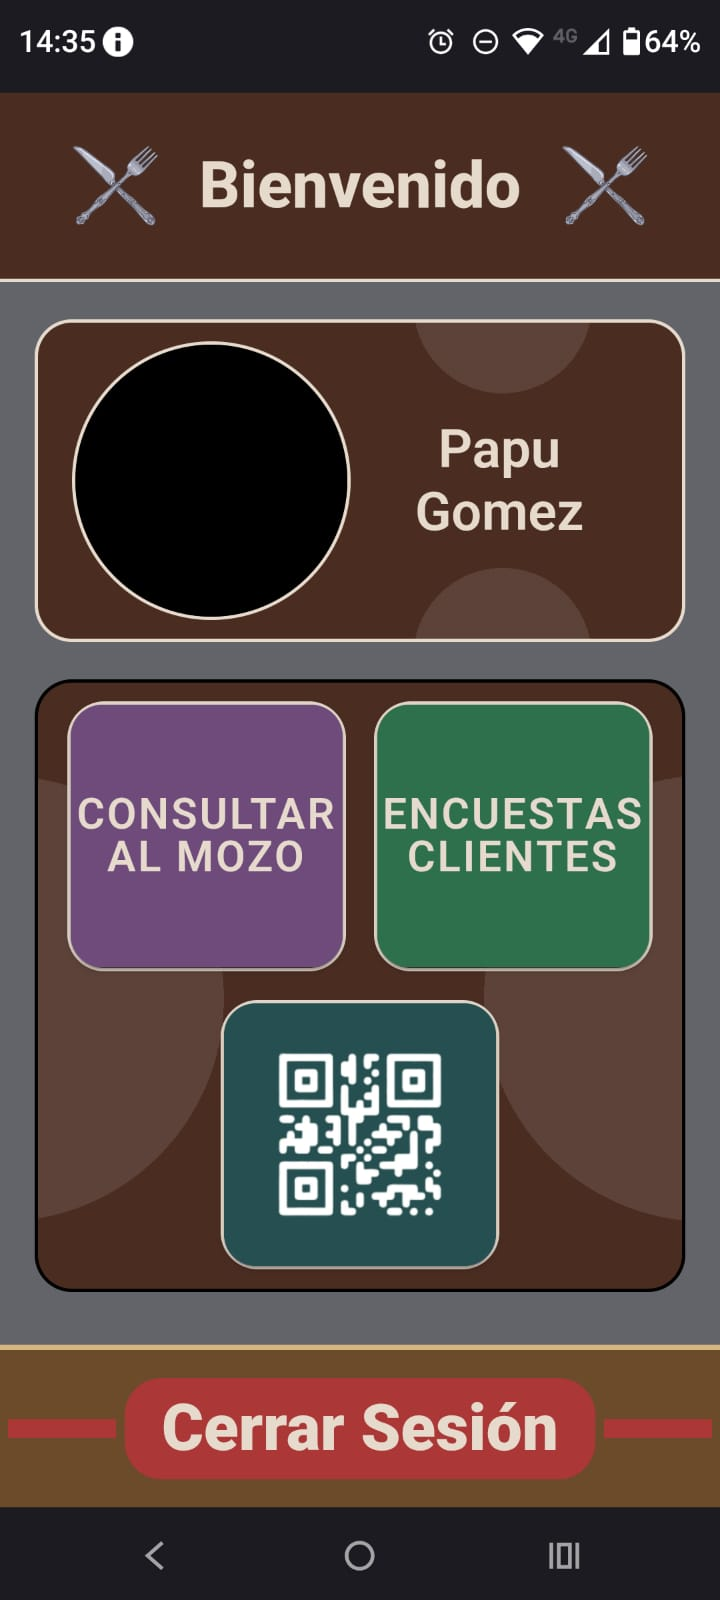
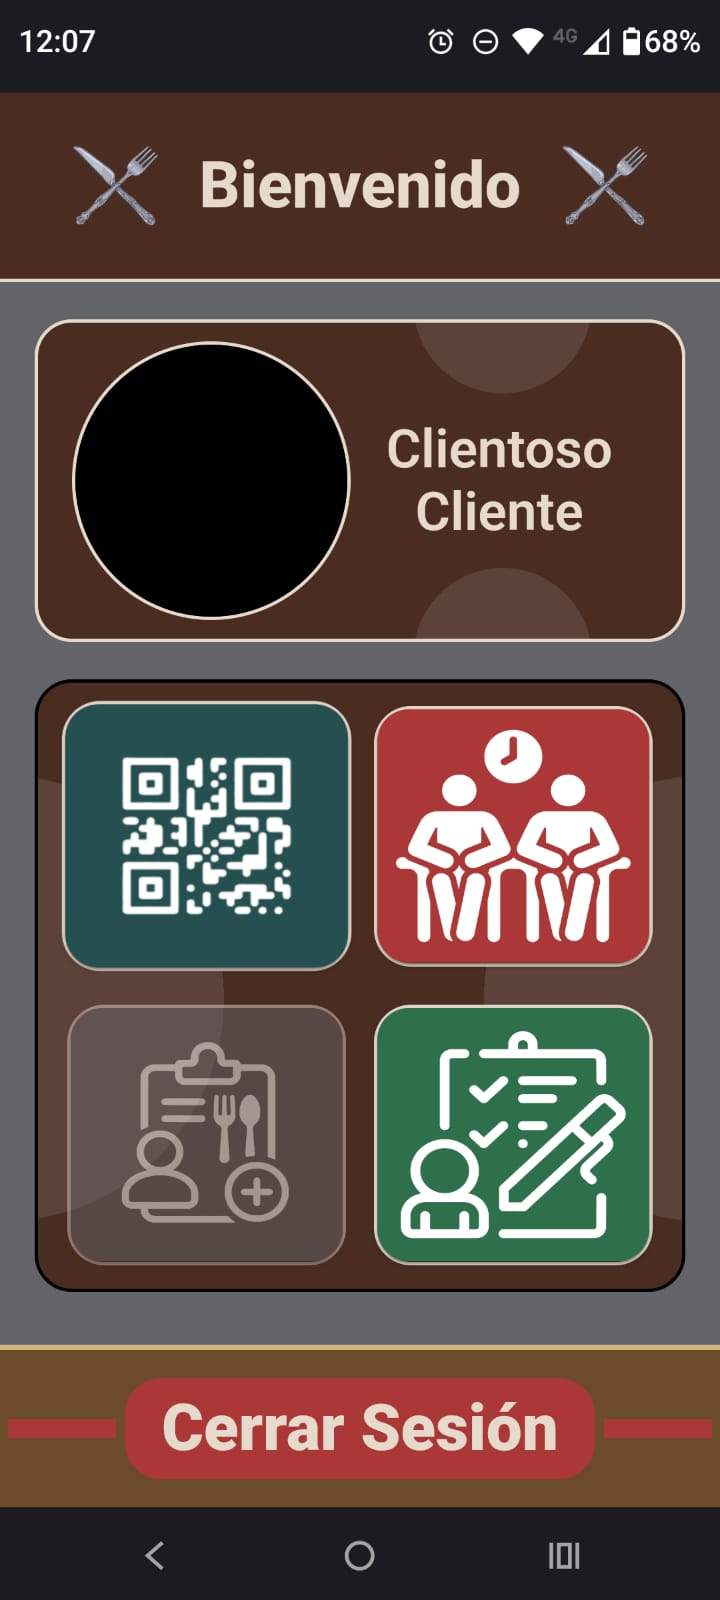
Cambios ReadMe

diff --git a/README.md b/README.md
@@ -13,38 +13,50 @@ Imagen 1 (principal - mozo):
 Si el círculo que está en el medio de la pantalla es una foto del empleado, hacerla más grande. 
 Si 'Pedidos' es la única opción, quitar esa pantalla y redirigir directamente a la opción en cuestión.
 Evitar textos en botones (recordar que los empleados están en constatnte movimiento y poca luz, deberían poder acceder a las opciones con un golpe de vista. Reemplazarlo por íconos, imágenes alusivas, etc (grandes).
+
 Imagen 2 (principal - cocina):
 Ídem anterior.
+
 Imagen 3 (principal - bar):
 Ídem anterior.
+
 Imagen 4 (alta - plato):
 Agrandar el tamño para las fotos.
 El mensaje que indica que faltan 3 foto(s) tiene un par de problemas. Primero, sacar la 's' de entre los paréntesis, son 3 fotos. Segundo, ¿fondo verde oscuro y letras de color rojo? El contraste es pésimo. Luego del botón tomar fotos, sale cortado...
+
 Imagen 5 (registro empleado):
 Texto en campo DNI sale cortado. El botón para escanear el código es pequeño.
 Quitar el botón de Iniciar sesión, es una pantalla para generar un registro.
+
 Imagen 6 (¿carrito de compras?):
 Dejar más espacio para las descripciones, pueden se más extensas.
+
 Imagen 7 (?):
 Tiene mucho espacio libre y además no sé que es ¿botón sii? y otro botón abrir chat
+
 Imagen 8 (push - mesa asignada):
 Está bien.
+
 Imagen 9 (ingreso anónimo):
 Está bien.
+
 Imagen 10 (lista de espera):
 Quitar el estado, que siempre será pendiente si está en el listado. Aprovechar ese 'renglón' extra para agrandar un poco más la foto.
+
 Imagen 11 (correo rechazo):
 Falta el logo de la empresa. En cuanto al mensaje, quitar la parte que dice: "En unos minutos un dueño o supervisor autorizará su ingreso" ya que pueden pasar más que unos minutos y también puede pasar que no lo autoricen.
+
 Imagen 12 (pedidos mozo - aceptados):De nuevo, es un empleado que está en constante movimiento y, seguramente, mire el dispositivo mientres camine. Es un arco íris esta pantalla. De un golpe de vista no se lleva nada.
 Luego, quitar esos botones o solapas con los listados, generar botones flotantes, opciones de menú, o algo para que solo vea una sección a la vez, y de ser necesario, ingrese a la siguiente. ¿Impagados?
 El número de mesa, bien grande. El estado, acá tampoco va. Si estoy en el listado de 'Aceptados', el estado siempre será 'Aceptado'. El tiempo de espera es irrelevante para el mozo, pero si lo quieren dejar, quitar todas las abreviaturas. El total no interesa (hasta que se quiera abonar), quitar.
 Con toodo el espacio ganado, indicar, mediante gráficos, imágenes, íconos, etc. el estado del pedido en cada sector (cocina y bar)
+
 Imagen 13 (pedidos mozo - pendientes):Ídem anterior, no tener esos botones superioes. No hay listados para evaluar.
+
 Imagen 14 (iniciar sesión):Igualar en tamaño a los botones de la parte inferior 'Crear cuenta' y el de 'Ingreso anónimo'
 
 NOTA: muchos enlaces a las imágenes no cargan. Dichas imágenes no fueron evaluadas.
 Dejar las imágenes en una carpeta compartida, así se pueden ver todas
-
 
 
 ## Responsabilidades (Primera Semana) 🛠
@@ -55,8 +67,10 @@ Dejar las imágenes en una carpeta compartida, así se pueden ver todas
 - Branch: panuccio/altas
 
 <p align="center">
-  <img src="src/assets/imagesGithub/home-dueno.jpeg" alt="Home Dueño" width="400" height="800">
-  <img src="src/assets/imagesGithub/home-supervisor.jpeg" alt="Home Supervisor" width="400" height="800">
+  <img src="src/assets/imagesGithub/home-dueno-1.jpeg" alt="Home Dueño 1" width="400" height="800">
+  <img src="src/assets/imagesGithub/home-dueno-2.jpeg" alt="Home Dueño 2" width="400" height="800">
+  <img src="src/assets/imagesGithub/home-supervisor-1.jpeg" alt="Home Supervisor 1" width="400" height="800">
+  <img src="src/assets/imagesGithub/home-supervisor-2.jpeg" alt="Home Supervisor 2" width="400" height="800">
   <img src="src/assets/imagesGithub/home-maitre.jpeg" alt="Home Maitre" width="400" height="800">
   <img src="src/assets/imagesGithub/home-cocinero.jpeg" alt="Home Cocinero" width="400" height="800">
   <img src="src/assets/imagesGithub/home-bartender.jpeg" alt="Home Bartender" width="400" height="800">
@@ -64,7 +78,6 @@ Dejar las imágenes en una carpeta compartida, así se pueden ver todas
   <img src="src/assets/imagesGithub/home-cliente-2.jpeg" alt="Home Cliente 2" width="400" height="800">
   <img src="src/assets/imagesGithub/home-cliente-1.jpeg" alt="Home Cliente 1" width="400" height="800">
   <img src="src/assets/imagesGithub/home-cliente-3.jpeg" alt="Home Cliente 3" width="400" height="800">
-  <img src="src/assets/imagesGithub/home-cliente-4.jpeg" alt="Home Cliente 4" width="400" height="800">
   <img src="src/assets/imagesGithub/alta-plato-1.jpeg" alt="Alta Plato 1" width="400" height="800">
   <img src="src/assets/imagesGithub/alta-plato-2.jpeg" alt="Alta Plato 2" width="400" height="800">
   <img src="src/assets/imagesGithub/alta-mesa.jpeg" alt="Alta Mesa" width="400" height="800">
@@ -263,6 +276,10 @@ Dejar las imágenes en una carpeta compartida, así se pueden ver todas
 <p align="center">
   <img src="src/assets/imagesGithub/delivery-1.jpeg" alt="Delivery 1" width="400" height="800">
   <img src="src/assets/imagesGithub/delivery-mapa.jpeg" alt="Delivery Mapa" width="400" height="800">
+  <img src="src/assets/imagesGithub/delivery-ubicacion.jpeg" alt="Delivery Ubicación" width="400" height="800">
+  <img src="src/assets/imagesGithub/delivery-pendiente.jpeg" alt="Delivery Pendiente" width="400" height="800">
+  <img src="src/assets/imagesGithub/sin-pedidos-delivery.jpeg" alt="Sin Pedidos Delivery" width="400" height="800">
+  <img src="src/assets/imagesGithub/sin-pedidos-delivery-dueno.jpeg" alt="Sin Pedidos Dueño Delivery" width="400" height="800">
 </p>
 
 * Roman
@@ -270,3 +287,14 @@ Dejar las imágenes en una carpeta compartida, así se pueden ver todas
 - Fecha Inicial: 25/10/2025
 - Fecha Final: 28/10/2025
 - Branch: roman
+
+<p align="center">
+  <img src="src/assets/imagesGithub/reservas-1.jpeg" alt="Reservas 1" width="400" height="800">
+  <img src="src/assets/imagesGithub/reservas-2.jpeg" alt="Reservas 2" width="400" height="800">
+  <img src="src/assets/imagesGithub/reservas-3.jpeg" alt="Reservas 3" width="400" height="800">
+  <img src="src/assets/imagesGithub/reservas-4.jpeg" alt="Reservas 4" width="400" height="800">
+  <img src="src/assets/imagesGithub/reservas-5.jpeg" alt="Reservas 5" width="400" height="800">
+  <img src="src/assets/imagesGithub/reservas-6.jpeg" alt="Reservas 6" width="400" height="800">
+  <img src="src/assets/imagesGithub/eleccion_fecha.jpeg" alt="Elección Fecha" width="400" height="800">
+  <img src="src/assets/imagesGithub/eleccion_hora.jpeg" alt="Elección Hora" width="400" height="800">
+</p>
